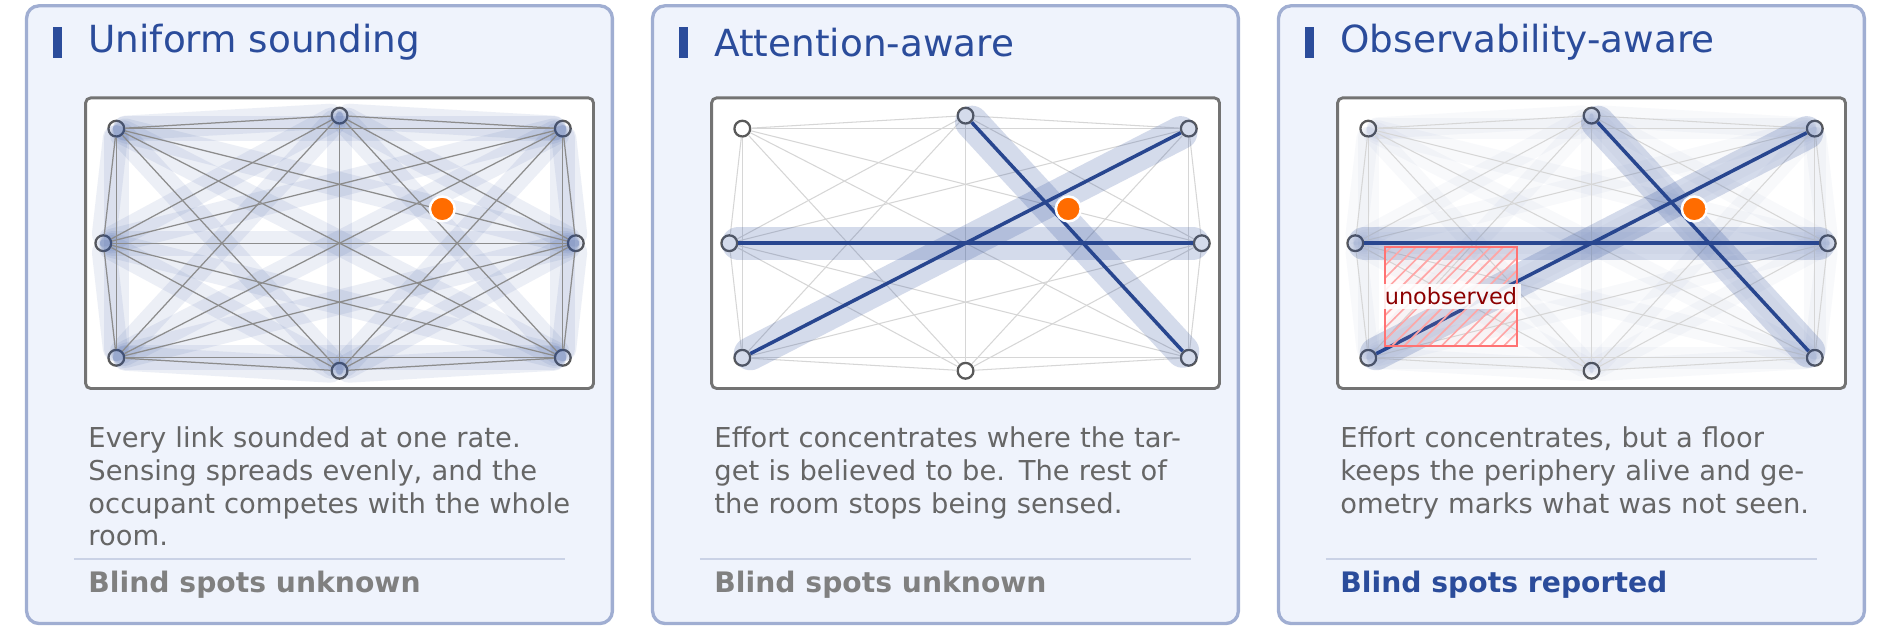
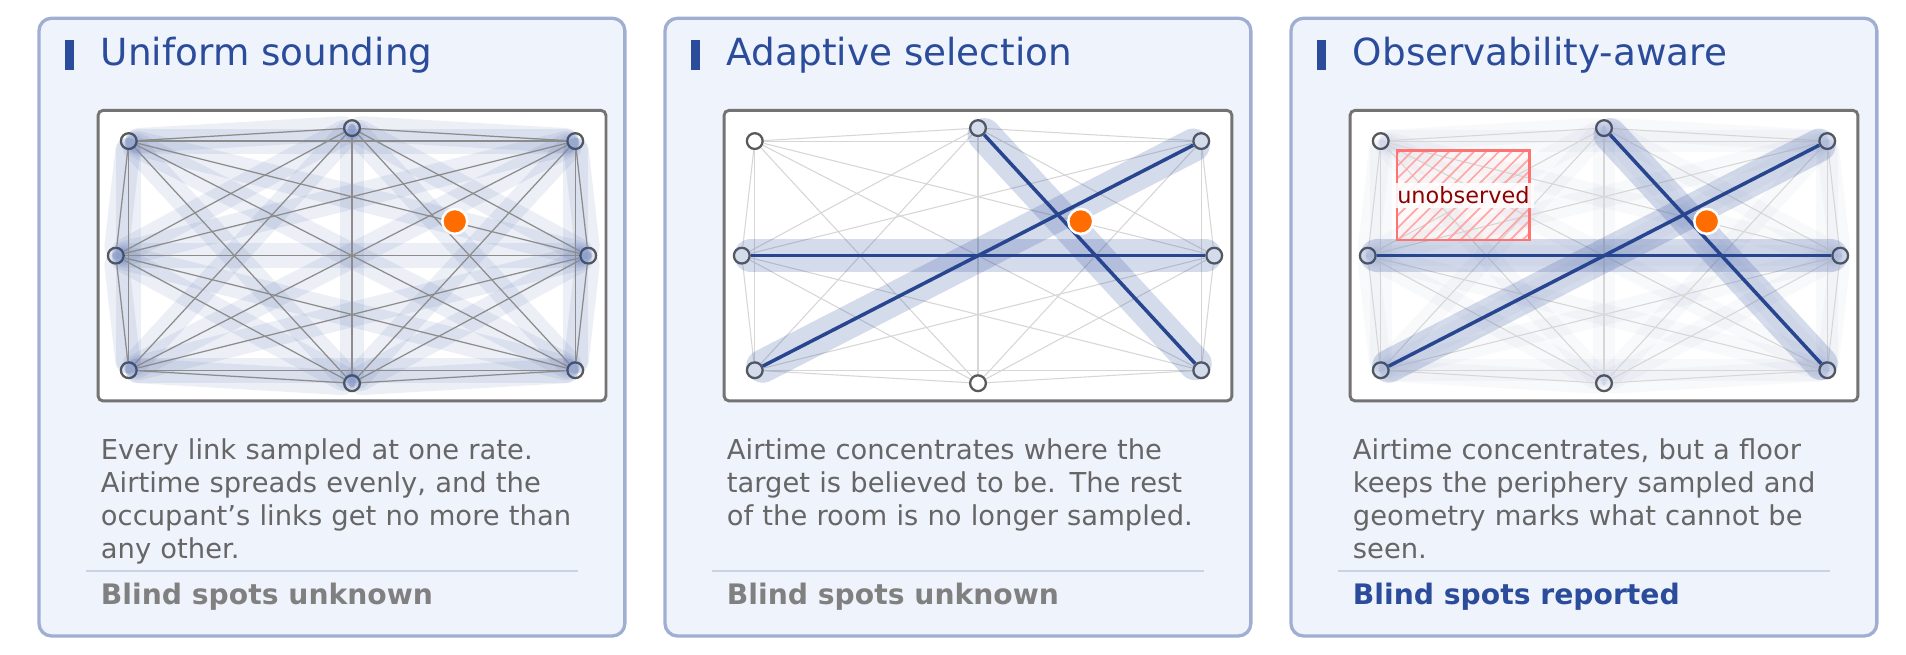
README: current figures and terminology

Changed region(s): [[0.0, 0.0, 1.0, 0.9952], [0.4317, 0.2714, 0.4625, 0.3016]]

diff --git a/README.md b/README.md
@@ -1,22 +1,22 @@
-# Foveation and Observability in Wireless Sensor Networks
+# Foveation and Observability in Next-Generation Wireless Sensing Networks
 
 Code, node firmware and data behind K. Khamaisi and B. Rodrigues, "Foveation and Observability
 in Next-Generation Wireless Sensing Networks", IEEE Communications Magazine (under revision).
 
-<p align="center"><img src="docs/fig_paradigms.png" alt="Three sensing paradigms on the same room: uniform sounding, attention-aware, observability-aware" width="100%"></p>
+<p align="center"><img src="docs/fig_paradigms.png" alt="Three ways to divide the sounding airtime in the same room: uniform sounding, adaptive selection, observability-aware foveation" width="100%"></p>
 
 A mesh of Wi-Fi nodes shares one sounding budget. Uniform sounding spreads it over every link,
-so on a dense mesh no link is sampled fast enough to resolve human motion. Concentrating the
-budget on the links around the occupant (foveation) recovers the rate, but the rest of the room
-stops being sensed and a silence there is indistinguishable from an empty room. The approach
-keeps a floor of sounding on the periphery, and computes from the node geometry where the mesh
-can and cannot localize, so the system reports the regions it could not have observed (Fig. 2 of
-the article).
+so on a large mesh no link is sampled fast enough to capture human motion. Concentrating the
+airtime on the links around the occupant (the fovea) recovers the sampling rate, but the rest of
+the room (the periphery) is sampled less, and silence there cannot be told apart from an empty
+room. The approach keeps a periphery floor of sounding on all other nodes, and computes from the
+node geometry where the mesh can locate or detect a person (the observability field), so the
+system reports the regions it cannot observe as unknown (Fig. 2 of the article).
 
 | Folder | What it is |
 |---|---|
 | `firmware/` | The node firmware (v5.9.1, ESP32-C5 and ESP32-C3, ESP-IDF 5.4.1): triggered CSI sounding and overheard beamforming reports. |
-| `controller/` | The host side of the two-tier design: the firmware's wire protocol, a node controller that runs the sounding cycle, the seat allocator of the focused tier (Sec. IV) and the absence release of the case study (Sec. V). |
+| `controller/` | The host side of the two-tier design: the firmware's wire protocol, a node controller that runs the sounding cycle, the fovea and floor allocation of the active CSI tier (Sec. IV) and the absence release of the case study (Sec. V). |
 | `scripts/` | The analysis behind every figure and quoted number (Secs. III to V). |
 | `data/`, `reference/` | Inputs, and the outputs the article was written from. |
 | `tests/` | Tests for all of the above. |
@@ -45,11 +45,12 @@ python node_controller.py --mode focus --aim "MAC1|MAC2" --door "MAC1|MAC3"  # f
 ```
 
 The controller broadcasts DISCOVER, registers every node that answers, and then triggers one
-transmitter per 20 ms slot. In focus mode each 10 s bin it seats the aim chord and rotates the
-floor through a pool that starts from the door chords and covers every node, inside an envelope
-of six transmitters (`--envelope`). It writes one JSON line per CSI sample and per overheard
-beamforming report, and prints the links it heard. The wide tier needs nothing from the host:
-nodes forward the beamforming reports of the access point's clients as they overhear them.
+transmitter per 20 ms slot (50 triggers per second). In focus mode, every 10 s bin it gives fovea
+slots to the endpoints of the target link (`--aim`) and rotates the floor slots through a set of
+nodes that starts from the doorway links (`--door`) and covers every node, with at most six
+transmitters per bin (`--envelope`). It writes one JSON line per CSI sample and per overheard
+BFI report, and prints the links it heard. The passive BFI tier needs nothing from the host:
+nodes forward the BFI reports of the access point's clients as they overhear them.
 
 `controller/schedule.py` and `controller/release.py` are extracts of the deployed watcher. The
 allocator test replays a directive the deployment recorded on 8 September 2026
@@ -59,13 +60,13 @@ release replay matches the logged absence score in every bin of the hold.
 ## Data
 
 - `data/positions.json`: the ten node positions in metres, from the mesh's own position solver
-  (not a survey), keyed by the last two bytes of each node's MAC address, as printed in Fig. 3.
-- `data/episode.json`: the evening of 4 August 2026, 19:00 to 23:00 local time (UTC+2), one row
-  per 10 s bin, as plotted in Fig. 5: `p_present` the presence belief, `reported_occupied` the
-  reported state, `z_roll` the movement statistic, `s_absence` the absence score.
-- `data/episode_inputs.jsonl`: the same evening with every input of the release rule, one row per
+  (not a survey), keyed by the last two bytes of each node's MAC address, the circles in Fig. 3.
+- `data/episode.json`: 4 August 2026, 19:00 to 23:00 local time (UTC+2), one row
+  per 10 s bin, as plotted in Fig. 5: `p_present` the occupancy estimate, `reported_occupied` the
+  reported state, `z_roll` the CSI motion statistic, `s_absence` the absence score.
+- `data/episode_inputs.jsonl`: the same recording with every input of the release rule, one row per
   10 s bin: `z_roll` (CSI), `z_mesh`, `bfi_agitation_z` and `bfi_n_reporting` (BFI),
-  `sounding_density` (device traffic), `illuminated` (an active probe), `event`, and the logged
+  `sounding_density` (device traffic), `illuminated` (an active probe ran in this bin), `event`, and the logged
   `s_absence` and `absence_reason`.
 
 Two inputs come from the deployment and are not regenerated here: the signal and noise levels in
